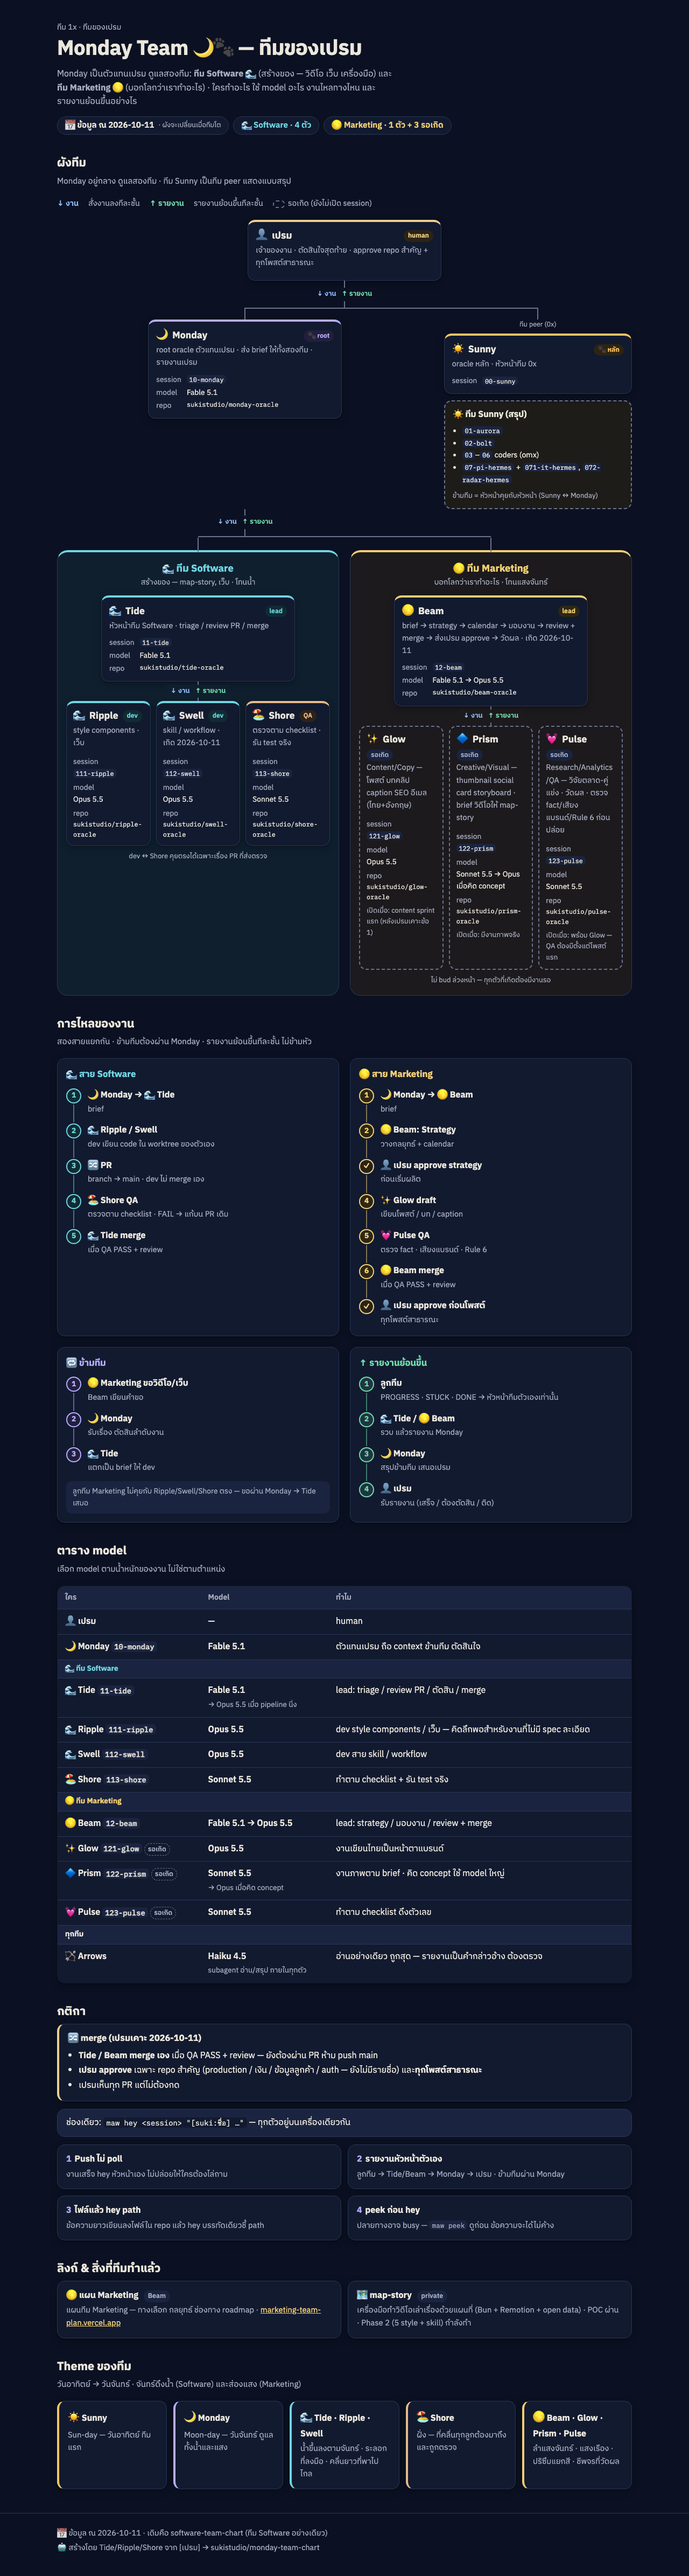
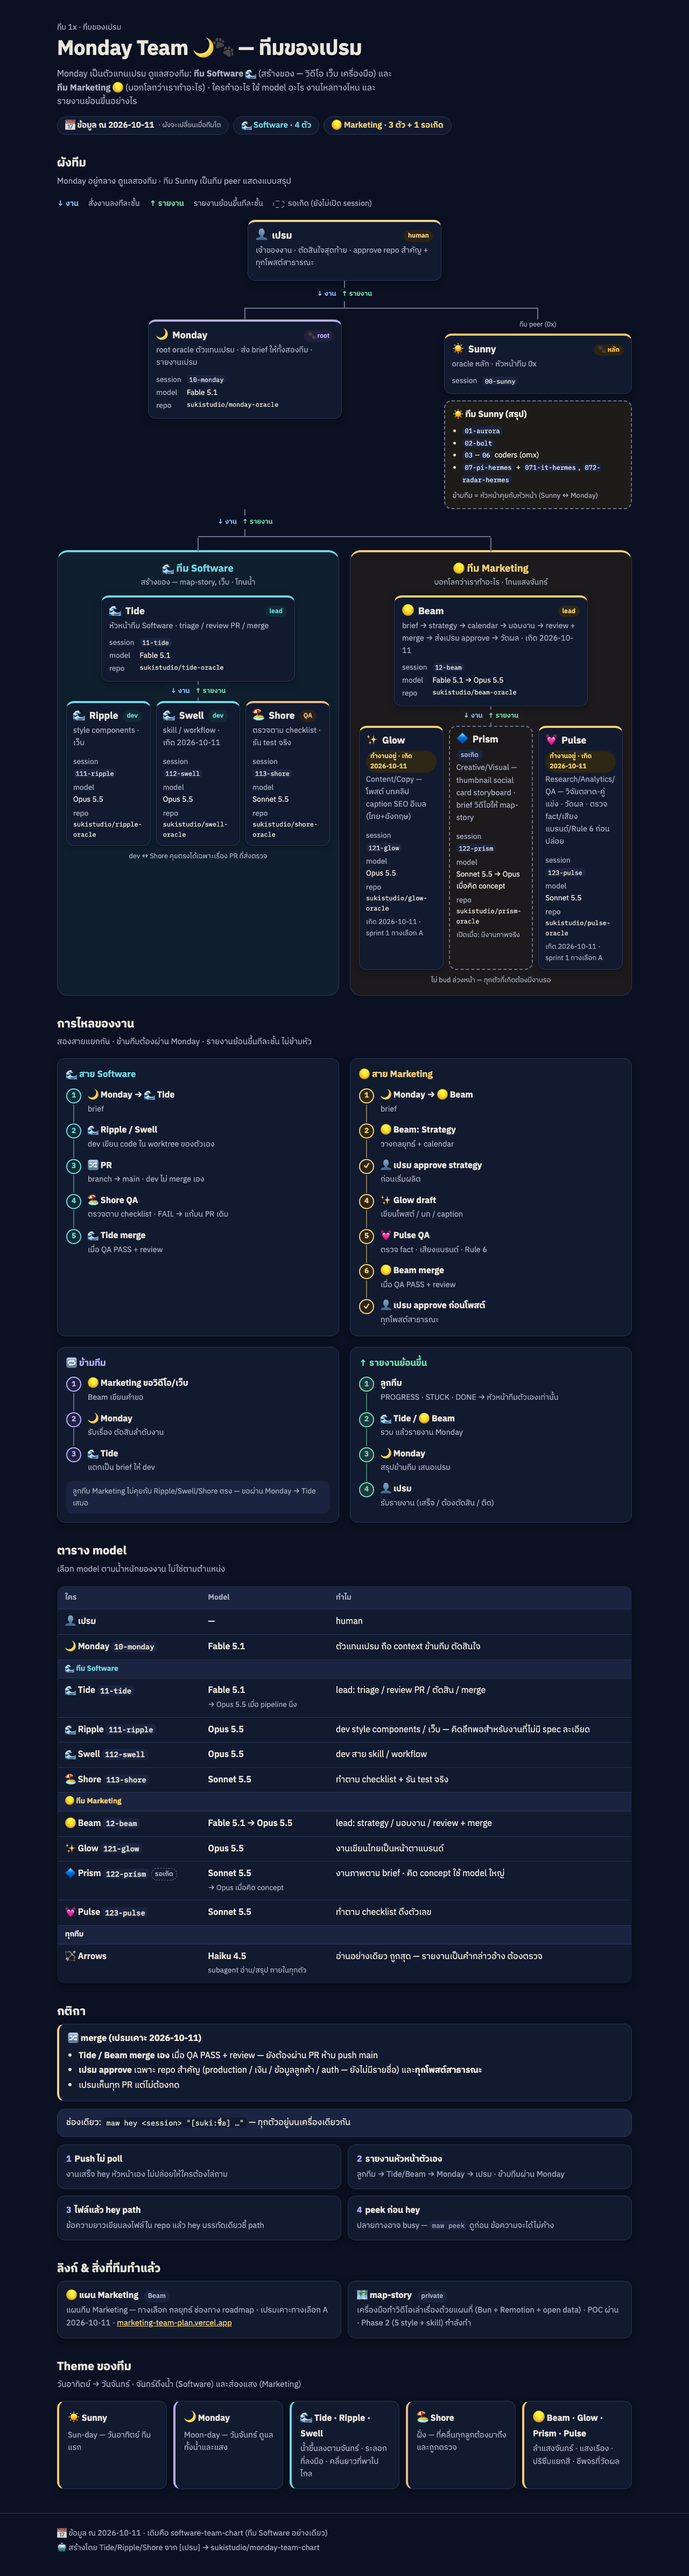
fix: Beam review — Glow/Pulse born 2026-10-11, Marketing 3 + 1 planned
- Glow 121-glow, Pulse 123-pulse: solid cards, "ทำงานอยู่ · เกิด 2026-10-11",
  "เกิด 2026-10-11 · sprint 1 ทางเลือก A"; model table no longer "รอเกิด"
- badge: Marketing 3 ตัว + 1 รอเกิด (Prism still planned)
- plan card: เปรมเคาะทางเลือก A 2026-10-11; link confirmed (not placeholder)
- member tags wrap inside narrow cards; screenshots refreshed

Changed region(s): [[0.7812, 0.2805, 0.9062, 0.374], [0.5312, 0.2805, 0.625, 0.374]]

diff --git a/index.html b/index.html
@@ -208,7 +208,7 @@
   .members { width: 100%; display: grid; grid-template-columns: repeat(auto-fit, minmax(150px, 1fr)); gap: 10px; }
   .members .card { padding: 10px 12px; }
   .members .who { flex-wrap: wrap; gap: 4px 8px; overflow-wrap: normal; white-space: nowrap; }
-  .members .tag { margin-left: 0; }
+  .members .tag { margin-left: 0; white-space: normal; max-width: 100%; }
   .members .card dl { grid-template-columns: 1fr; gap: 0; }
   .members .card dt { margin-top: 4px; }
   .panel-note { margin: 10px 0 0; font-size: .8rem; color: var(--muted); text-align: center; }
@@ -303,7 +303,7 @@
     <div class="badges">
       <span class="badge">📅 ข้อมูล ณ 2026-10-11 <small>· ผังจะเปลี่ยนเมื่อทีมโต</small></span>
       <span class="badge water">🌊 Software · 4 ตัว</span>
-      <span class="badge gold">🌕 Marketing · 1 ตัว + 3 รอเกิด</span>
+      <span class="badge gold">🌕 Marketing · 3 ตัว + 1 รอเกิด</span>
     </div>
   </div>
 </header>
@@ -429,15 +429,15 @@
           </article>
           <div class="edge short"><span class="lbl"><span class="w">↓ งาน</span><span class="r">↑ รายงาน</span></span></div>
           <div class="members">
-            <article class="card planned">
-              <p class="who"><span class="emo">✨</span>Glow <span class="tag">รอเกิด</span></p>
+            <article class="card p-gold">
+              <p class="who"><span class="emo">✨</span>Glow <span class="tag">ทำงานอยู่ · เกิด 2026-10-11</span></p>
               <p class="role">Content/Copy — โพสต์ บทคลิป caption SEO อีเมล (ไทย+อังกฤษ)</p>
               <dl>
                 <dt>session</dt><dd><code>121-glow</code></dd>
                 <dt>model</dt><dd>Opus 5.5</dd>
                 <dt>repo</dt><dd class="mono">sukistudio/glow-oracle</dd>
               </dl>
-              <p class="when">เปิดเมื่อ: content sprint แรก (หลังเปรมเคาะข้อ 1)</p>
+              <p class="when">เกิด 2026-10-11 · sprint 1 ทางเลือก A</p>
             </article>
             <article class="card planned">
               <p class="who"><span class="emo">🔷</span>Prism <span class="tag">รอเกิด</span></p>
@@ -449,15 +449,15 @@
               </dl>
               <p class="when">เปิดเมื่อ: มีงานภาพจริง</p>
             </article>
-            <article class="card planned">
-              <p class="who"><span class="emo">💓</span>Pulse <span class="tag">รอเกิด</span></p>
+            <article class="card p-gold">
+              <p class="who"><span class="emo">💓</span>Pulse <span class="tag">ทำงานอยู่ · เกิด 2026-10-11</span></p>
               <p class="role">Research/Analytics/QA — วิจัยตลาด-คู่แข่ง · วัดผล · ตรวจ fact/เสียงแบรนด์/Rule 6 ก่อนปล่อย</p>
               <dl>
                 <dt>session</dt><dd><code>123-pulse</code></dd>
                 <dt>model</dt><dd>Sonnet 5.5</dd>
                 <dt>repo</dt><dd class="mono">sukistudio/pulse-oracle</dd>
               </dl>
-              <p class="when">เปิดเมื่อ: พร้อม Glow — QA ต้องมีตั้งแต่โพสต์แรก</p>
+              <p class="when">เกิด 2026-10-11 · sprint 1 ทางเลือก A</p>
             </article>
           </div>
           <p class="panel-note">ไม่ bud ล่วงหน้า — ทุกตัวที่เกิดต้องมีงานรอ</p>
@@ -530,9 +530,9 @@
         <tr><td>🏖 Shore <code>113-shore</code></td><td class="m">Sonnet 5.5</td><td>ทำตาม checklist + รัน test จริง</td></tr>
         <tr class="group marketing"><td colspan="3">🌕 ทีม Marketing</td></tr>
         <tr><td>🌕 Beam <code>12-beam</code></td><td class="m">Fable 5.1 → Opus 5.5</td><td>lead: strategy / มอบงาน / review + merge</td></tr>
-        <tr><td>✨ Glow <code>121-glow</code><span class="planned">รอเกิด</span></td><td class="m">Opus 5.5</td><td>งานเขียนไทยเป็นหน้าตาแบรนด์</td></tr>
+        <tr><td>✨ Glow <code>121-glow</code></td><td class="m">Opus 5.5</td><td>งานเขียนไทยเป็นหน้าตาแบรนด์</td></tr>
         <tr><td>🔷 Prism <code>122-prism</code><span class="planned">รอเกิด</span></td><td><span class="m">Sonnet 5.5</span><br><span class="sub">→ Opus เมื่อคิด concept</span></td><td>งานภาพตาม brief · คิด concept ใช้ model ใหญ่</td></tr>
-        <tr><td>💓 Pulse <code>123-pulse</code><span class="planned">รอเกิด</span></td><td class="m">Sonnet 5.5</td><td>ทำตาม checklist ดึงตัวเลข</td></tr>
+        <tr><td>💓 Pulse <code>123-pulse</code></td><td class="m">Sonnet 5.5</td><td>ทำตาม checklist ดึงตัวเลข</td></tr>
         <tr class="group"><td colspan="3">ทุกทีม</td></tr>
         <tr><td>🏹 Arrows</td><td><span class="m">Haiku 4.5</span><br><span class="sub">subagent อ่าน/สรุป ภายในทุกตัว</span></td><td>อ่านอย่างเดียว ถูกสุด — รายงานเป็นคำกล่าวอ้าง ต้องตรวจ</td></tr>
       </tbody>
@@ -565,7 +565,7 @@
     <div class="grid-2">
       <div class="linkcard">
         <h3>🌕 แผน Marketing <span class="status">Beam</span></h3>
-        <p>แผนทีม Marketing — ทางเลือก กลยุทธ์ ช่องทาง roadmap · <a href="https://marketing-team-plan.vercel.app">marketing-team-plan.vercel.app</a></p>
+        <p>แผนทีม Marketing — ทางเลือก กลยุทธ์ ช่องทาง roadmap · เปรมเคาะทางเลือก A 2026-10-11 · <a href="https://marketing-team-plan.vercel.app">marketing-team-plan.vercel.app</a></p>
       </div>
       <div class="linkcard">
         <h3>🗺 map-story <span class="status">private</span></h3>
